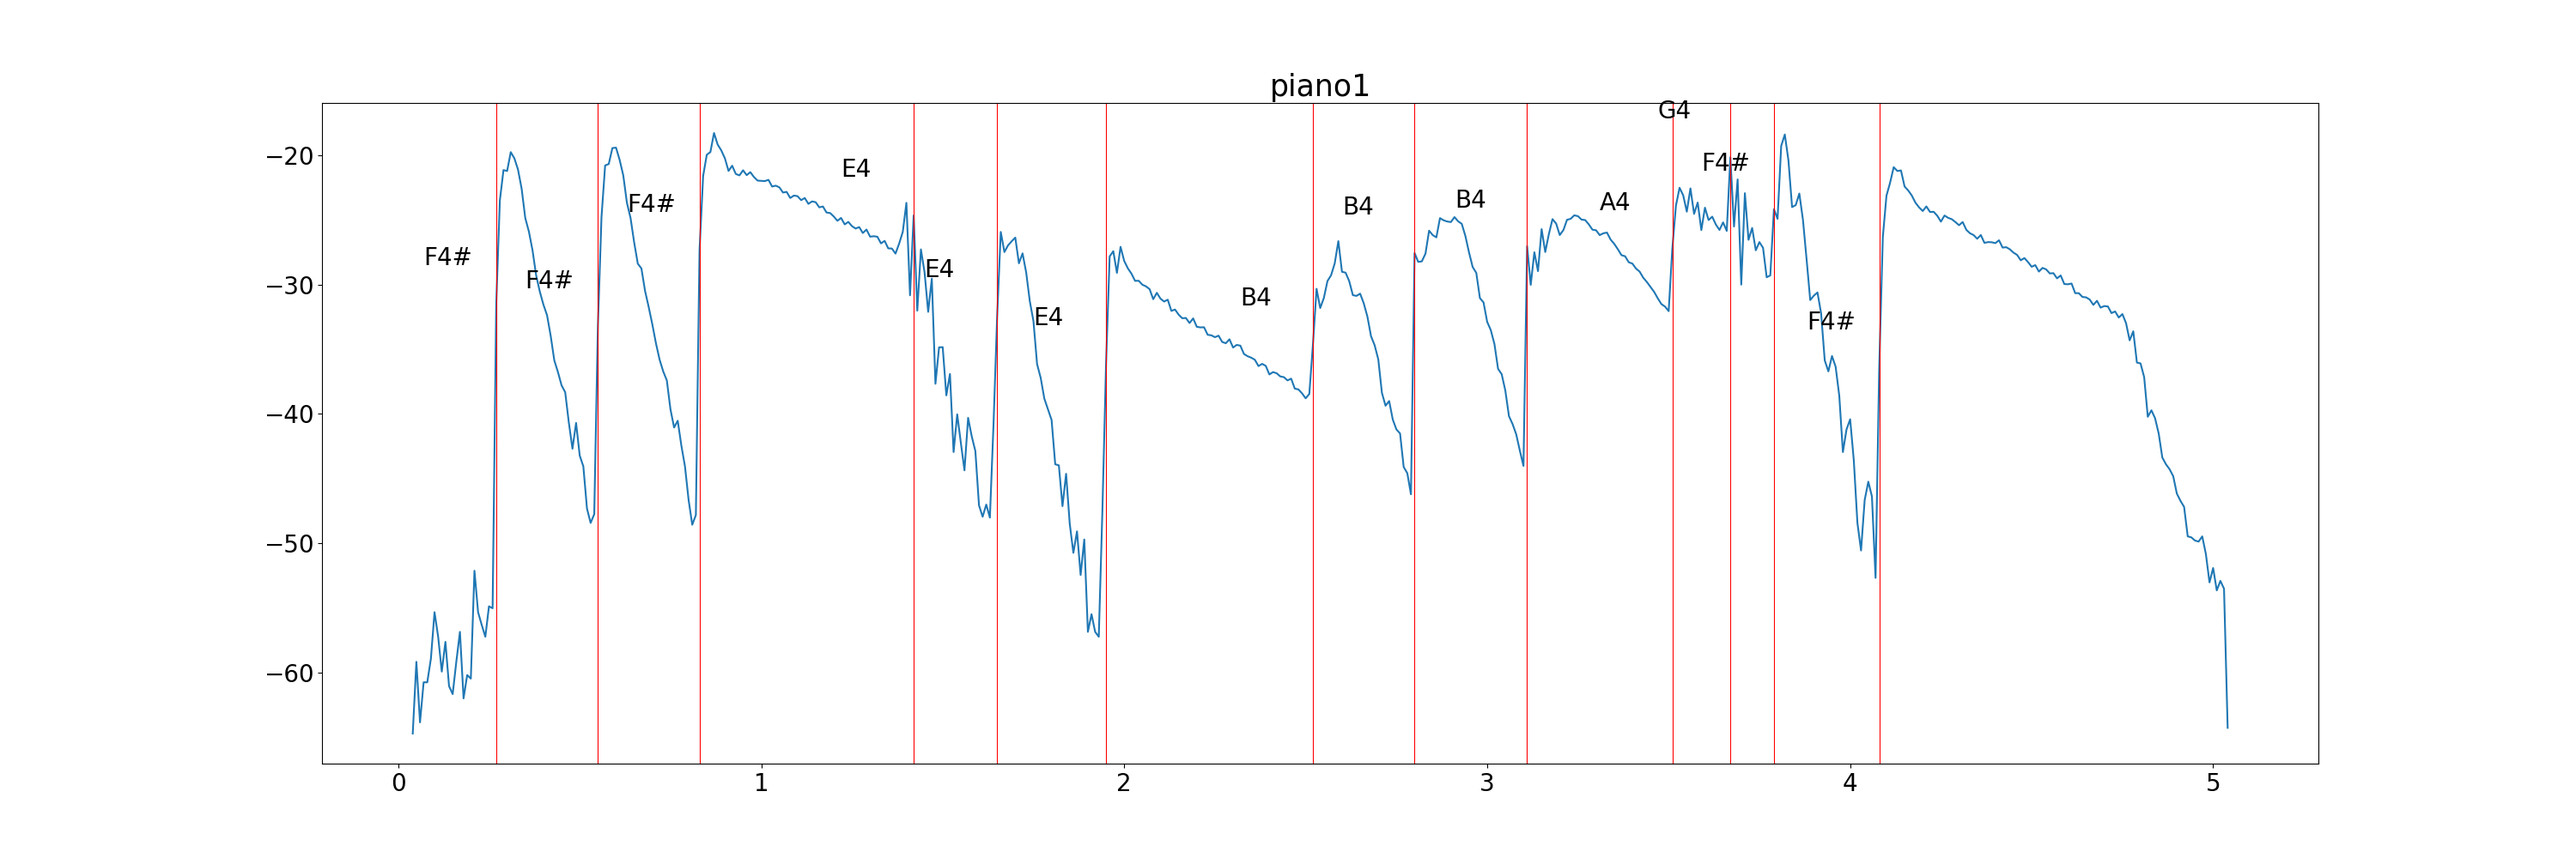
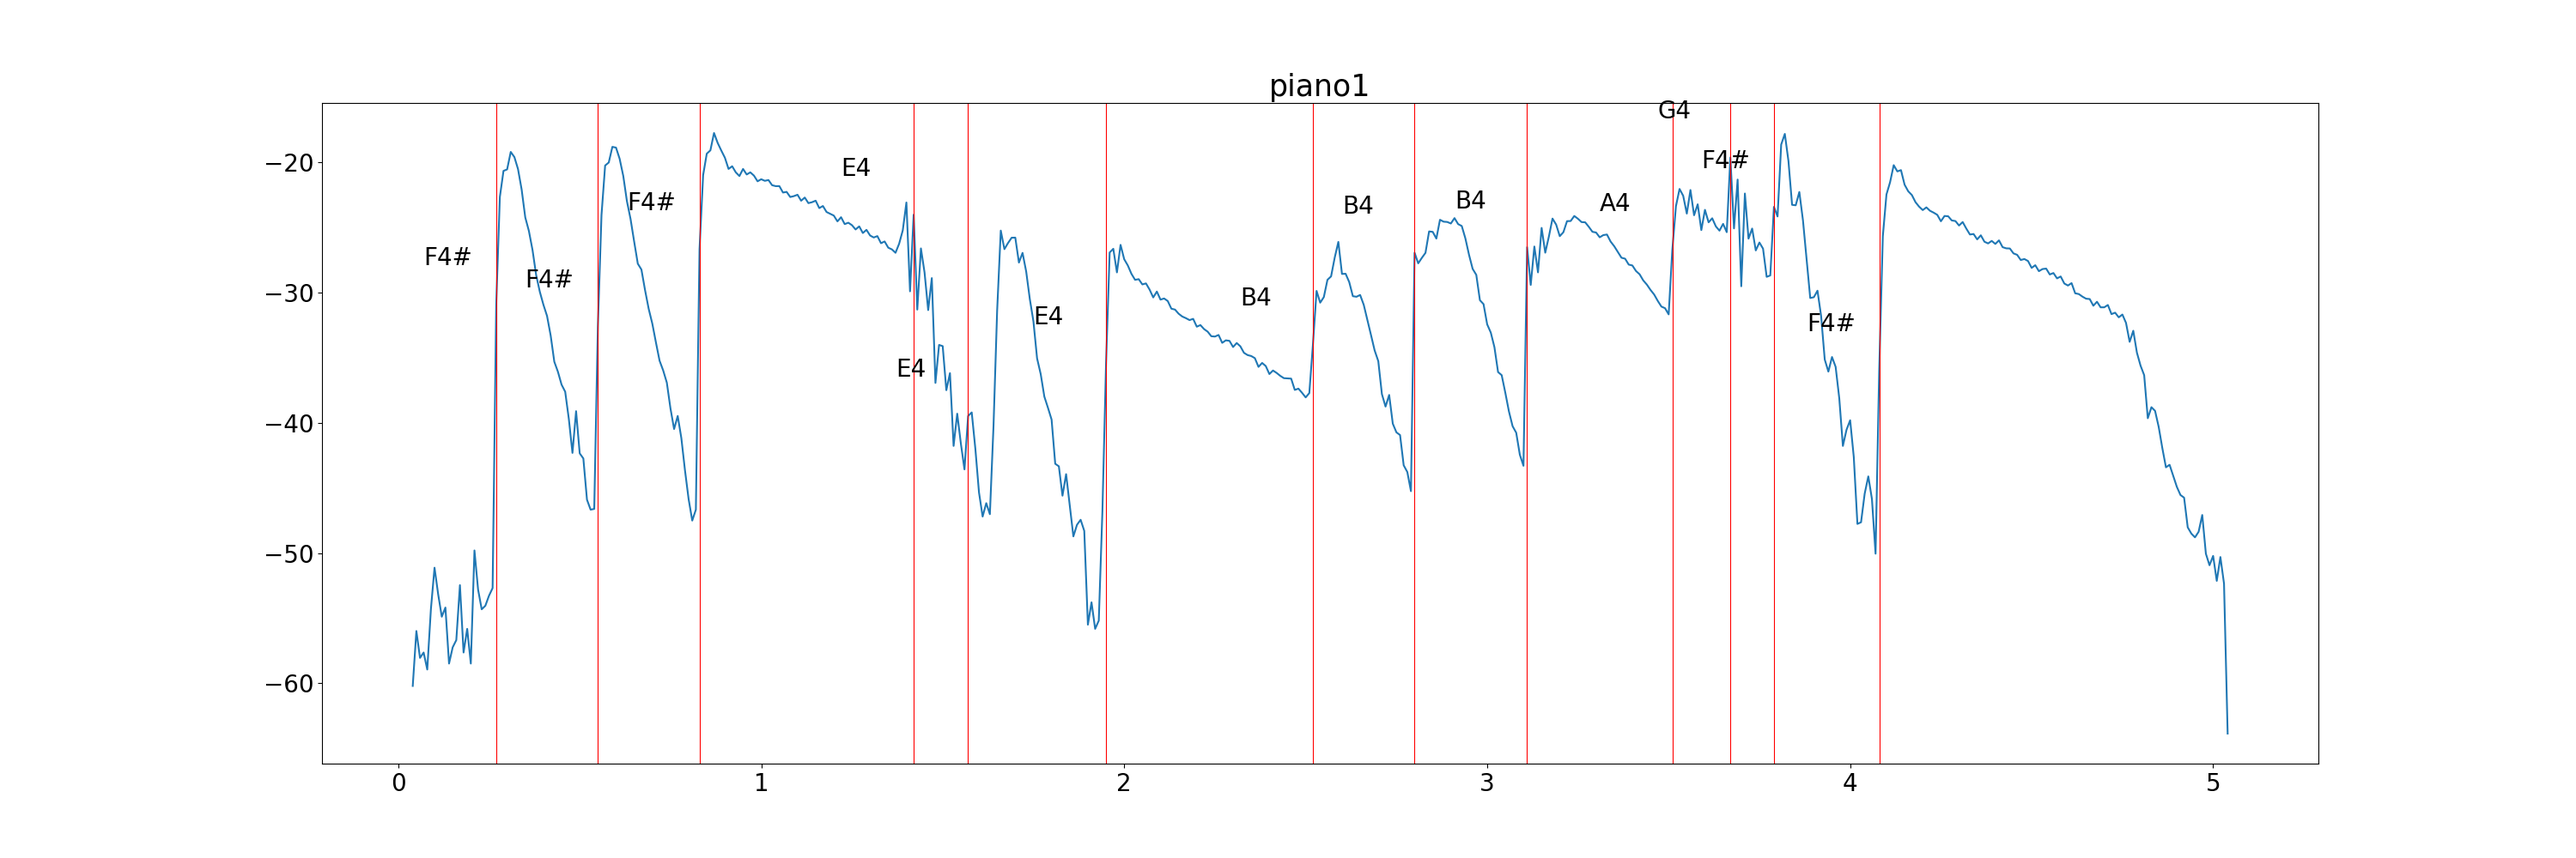
update the note range

diff --git a/Music_teacher.py b/Music_teacher.py
@@ -5,6 +5,7 @@ this is the main function of the program,
 '''
 from pitchcoach import audio_pitch, steps_diff, transpose_checker
 from note_freq import note, freq, note_freq_dict 
+import os
 
 app_collection = {
   1: 'Transposition',
@@ -53,6 +54,8 @@ def main():
           return
       else: break
     org_melody = input('What is the filename of assigned melody? ').strip()
+    while not os.path.exists('input_data/' + org_melody + '.wav'):
+      org_melody = input('File doesn\'t exist. What is the filename of assigned melody? ').strip()
     org_melody_key = input('What is its key? ("key Major/minor") ').strip()
     org_key = get_tonic(org_melody_key)
     #print(org_key)
@@ -62,6 +65,8 @@ def main():
       #print(org_key)
 
     trp_melody = input('What is the filename of your transposition melody? ').strip()
+    while not os.path.exists('input_data/' + trp_melody + '.wav'):
+      trp_melody = input('File doesn\'t exist. What is the filename of assigned melody? ').strip()
     trp_melody_key = input('What is the transposition key? ("key Major/minor") ').strip()
     trp_key = get_tonic(trp_melody_key)
     while trp_key == None:

diff --git a/pitchcoach.py b/pitchcoach.py
@@ -43,7 +43,7 @@ def find_note(freq): # Find the note with closest frequency
 
 def audio_pitch(filename):
     audio = AudioSegment.from_file('input_data/' + filename + '.wav')
-    audio = audio.high_pass_filter(130).low_pass_filter(4000) # only deal with sounds within C3 - B7
+    audio = audio.high_pass_filter(16.35).low_pass_filter(8000) # only deal with sounds within C0 - B8
     bit_depth = audio.sample_width * 8
     array_type = get_array_type(bit_depth) 
 
